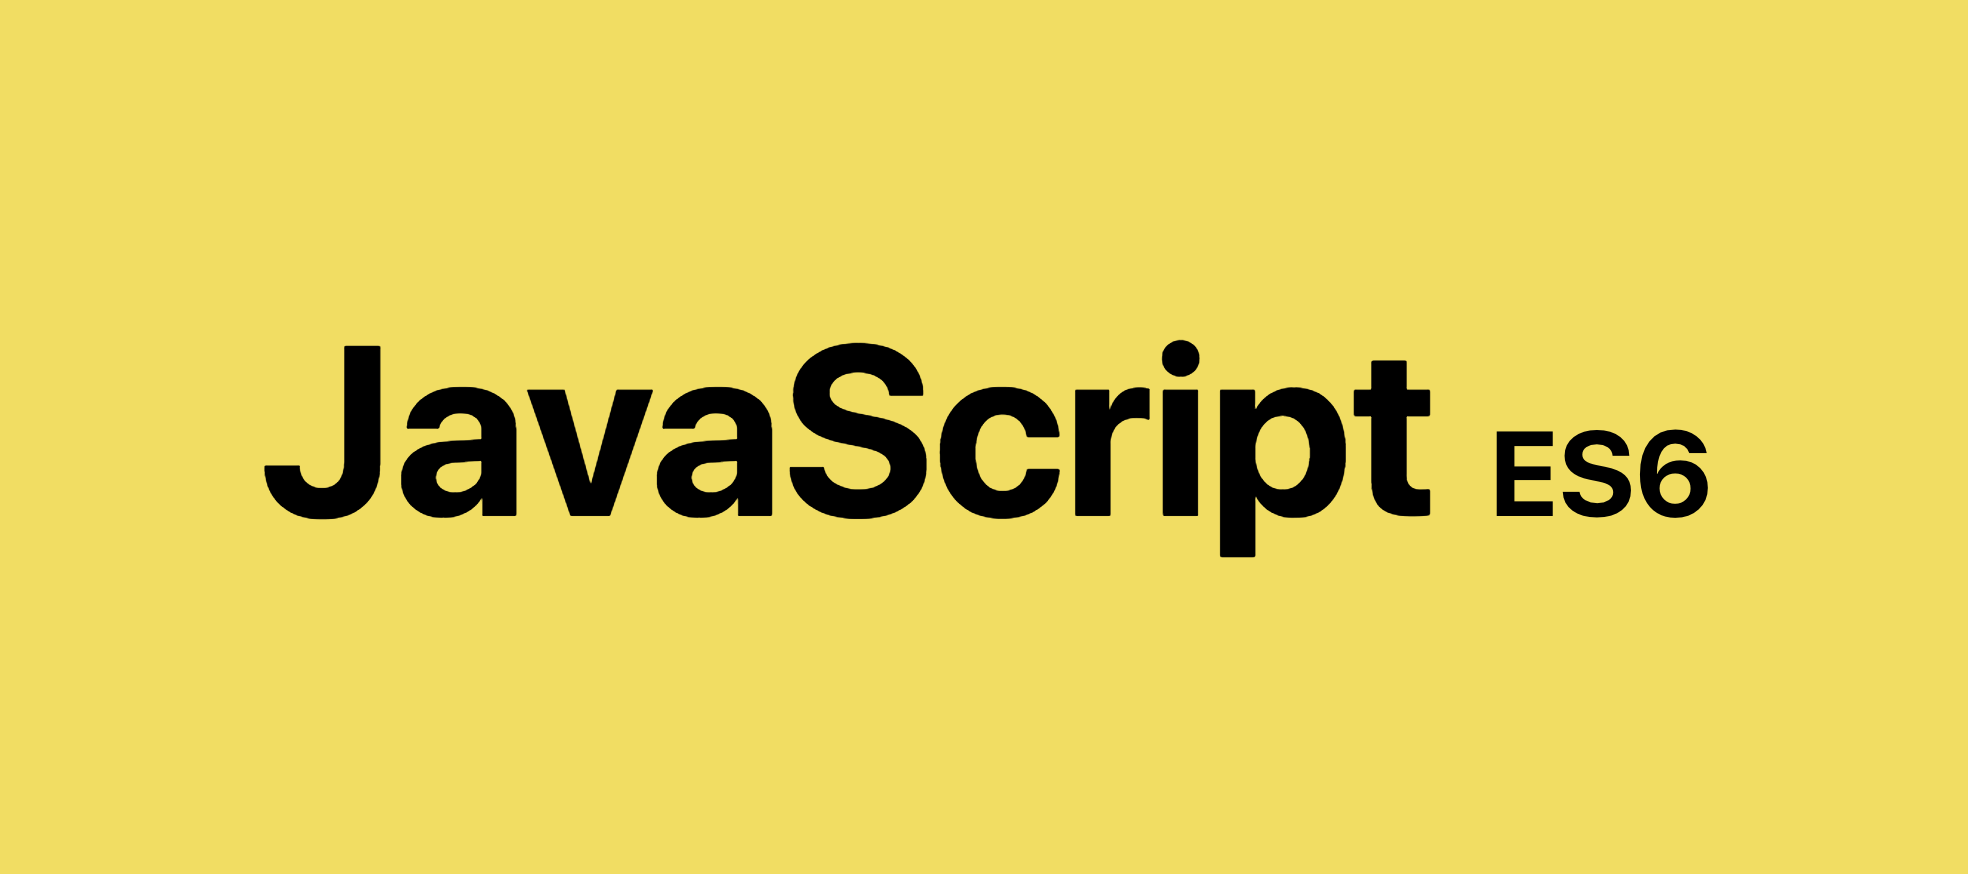
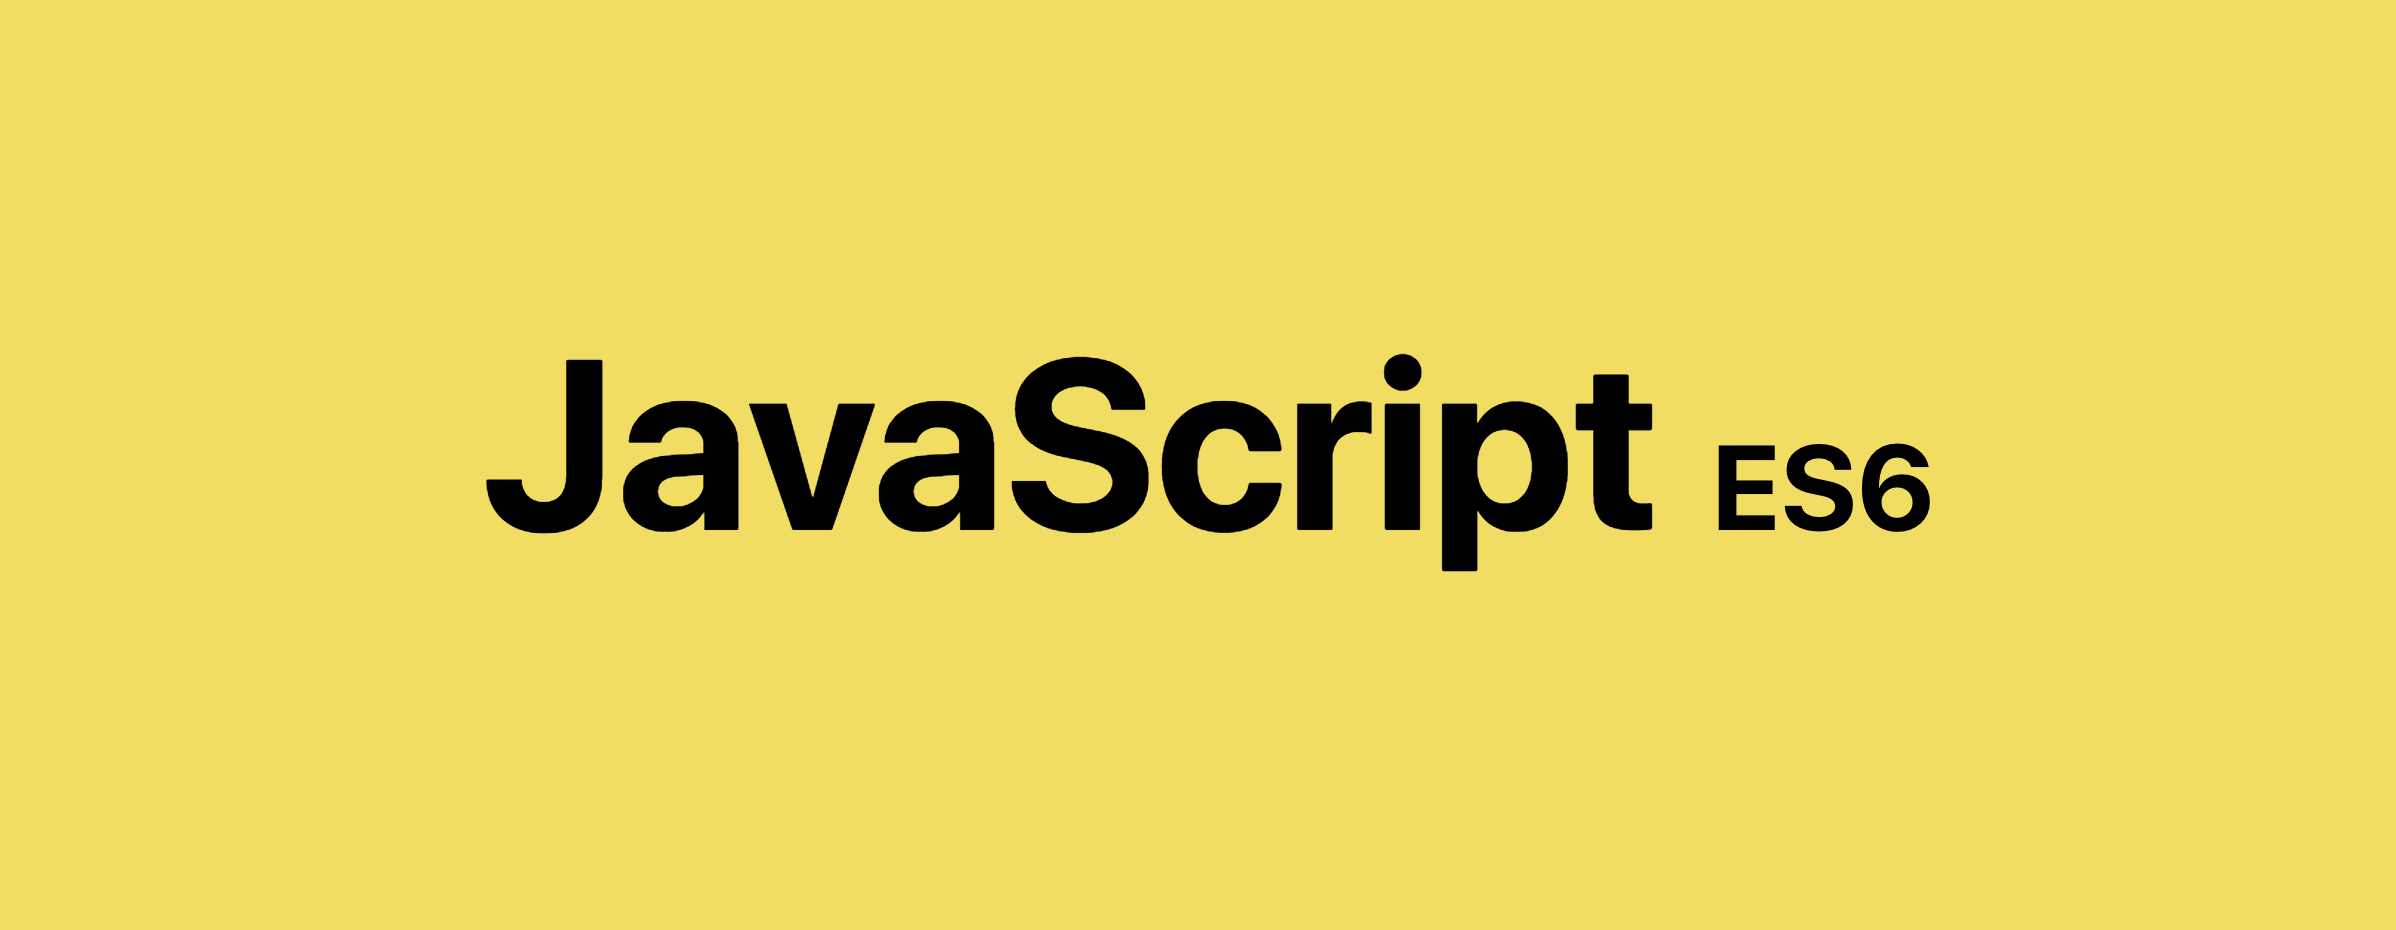
[UPDATE] 修改文章格式和上傳封面圖片

Changed region(s): [[0.124, 0.3707, 0.8679, 0.6487]]

diff --git a/src/content/js-websocket.md b/src/content/js-websocket.md
@@ -1,0 +1,268 @@
+---
+layout: post
+title: JavaScript | WebSocket 讓前後端沒有距離
+image: img/JavaScript.jpg
+author: GQSM
+date: 2019-08-21T13:45:54.149Z
+draft: false
+tags: 
+  - JavaScript
+  - WebSocket
+---
+
+## 前言
+
+最近因為工作的關係接觸到 <code class="hm hn ho hp hq b">WebSocket</code> ， <code class="hm hn ho hp hq b">WebSocket</code> 是網路協定的一種， Client 可以透過此協定與 Server 做溝通，而他和一般 <code class="hm hn ho hp hq b">http</code> 或 <code class="hm hn ho hp hq b">https</code> 不同的是， <code class="hm hn ho hp hq b">WebSocket</code> 協定只需透過一次連結便能保持連線，不必再透過一直發送 <code class="hm hn ho hp hq b">Request</code> 來與 Server 互動！
+
+---
+
+## WebSocket
+
+如前言所說， <code class="hm hn ho hp hq b">WebSocket</code> 只需開啟連結便能和 Server 做溝通，且 <code class="hm hn ho hp hq b">Websocket</code> 傳送資料的方式是雙向的， Client 端可以像 <code class="hm hn ho hp hq b">Ajax</code> 一樣做請求， Server 端也能主動發送 Client 所需要的資料。
+
+一般的 <code class="hm hn ho hp hq b">WebSocket</code> 請求網址會長這個樣子：
+
+<pre><span id="eaa9" class="is gm em at hq b fh it iu r iv">ws://example.com</span><span id="7253" class="is gm em at hq b fh iw ix iy iz ja iu r iv">//經過 <!-- -->SSL<!-- --> 加密後，前方的 <!-- -->ws<!-- --> 會變成 <!-- -->wss<!-- --> <br>wss://example.com</span></pre>
+<br />
+### Server 端 - 搭建 WebSocket 環境
+
+<code class="hm hn ho hp hq b">WebSocket</code> 的 Server 部分，本文會以 <code class="hm hn ho hp hq b">Node.js</code> 建置，如果電腦上還沒有安裝 <code class="hm hn ho hp hq b">Node.js</code> 可以先參考「<a href="https://ithelp.ithome.com.tw/articles/10199058" class="dj by jm jn jo jp" target="_blank" rel="noopener nofollow">[筆記][node.js]第一次建置node.js開發環境和安裝npm就上手！</a>」。
+
+處理好安裝環境後還需要在下載兩個套件，分別是用來開發 Web 框架的 <code class="hm hn ho hp hq b">express</code> 和負責處理 <code class="hm hn ho hp hq b">WebSocket</code> 協定的 <code class="hm hn ho hp hq b">ws</code> ：
+
+<pre><span id="ca26" class="is gm em at hq b fh it iu r iv">npm install express<br>npm install ws</span></pre>
+<br />
+
+安裝完後可以到專案中的 <code class="hm hn ho hp hq b">package.json</code> 中確認是否成功：
+
+<div><img class="dz t u jy ak" src="https://miro.medium.com/max/2108/1*EgbqxHT8iSGFbikO5oRVSg.png" role="presentation"><div style="display:flex; justify-content:center; font-size: 12px">
+            <span>下載完後的套件會被記錄到 package.json 中</span>
+          </div></div><br/>
+
+接著在專案裡新增一個 JavaScript 檔案 <code class="hm hn ho hp hq b">server.js</code> 當作專案的進入點：
+
+```javascript
+//import express 和 ws 套件
+const express = require('express')
+const SocketServer = require('ws').Server
+
+//指定開啟的 port
+const PORT = 3000
+
+//創建 express 的物件，並綁定及監聽 3000 port ，且設定開啟後在 console 中提示
+const server = express()
+    .listen(PORT, () => console.log(`Listening on ${PORT}`))
+
+//將 express 交給 SocketServer 開啟 WebSocket 的服務
+const wss = new SocketServer({ server })
+
+//當 WebSocket 從外部連結時執行
+wss.on('connection', ws => {
+
+    //連結時執行此 console 提示
+    console.log('Client connected')
+
+    //當 WebSocket 的連線關閉時執行
+    ws.on('close', () => {
+        console.log('Close connected')
+    })
+})
+```
+
+沒問題後便可以輸入以下指令執行 <code class="hm hn ho hp hq b">server.js</code> ：
+
+<pre><span id="6c86" class="is gm em at hq b fh it iu r iv">node server.js</span></pre>
+<br />
+
+當本機 Server 的指定 <code class="hm hn ho hp hq b">Port</code> 被打開時，會先執行我們監聽指定的事件：
+
+<div><img class="dz t u jy ak" src="https://miro.medium.com/max/1756/1*VAiVKJFcfHjAIll0WDRCxg.png" role="presentation"><div style="display:flex; justify-content:center; font-size: 12px">
+            <span>開啟成功後會在 console 中打印提示</span>
+          </div></div><br/>
+
+### Client 端 - 連接 WebSocket Server
+
+Server 端處理完後，就換到 Client 端來連結剛剛開啟的 <code class="hm hn ho hp hq b">WebSocket</code> 服務，這裡另外建一個專案，在專案裡只需一個 <code class="hm hn ho hp hq b">index.html</code> 及 <code class="hm hn ho hp hq b">index.js</code> ：
+
+<code class="hm hn ho hp hq b">index.html</code> 的部分先簡單處理，只需引用 <code class="hm hn ho hp hq b">index.js</code> 就可以了：
+
+```html
+<html>
+    <body>
+        <script src='./index.js'></script>
+    </body>
+</html>
+```
+
+<code class="hm hn ho hp hq b">index.js</code> 的部分會用來處理與 <code class="hm hn ho hp hq b">WebSocket</code> 的連結：
+
+```javascript
+//使用 WebSocket 的網址向 Server 開啟連結
+let ws = new WebSocket('ws://localhost:3000')
+
+//開啟後執行的動作，指定一個 function 會在連結 WebSocket 後執行
+ws.onopen = () => {
+    console.log('open connection')
+}
+
+//關閉後執行的動作，指定一個 function 會在連結中斷後執行
+ws.onclose = () => {
+    console.log('close connection')
+}
+```
+
+上方的 <code class="hm hn ho hp hq b">url</code> 為剛剛使用 <code class="hm hn ho hp hq b">node.js</code> 在本機上執行的 Server ，另外的 <code class="hm hn ho hp hq b">onopen</code> 及 <code class="hm hn ho hp hq b">onclose</code> 分別為他們指定一個 <code class="hm hn ho hp hq b">Function</code> ，在開啟和關閉連線時執行，執行結果：
+
+<div><img class="dz t u jy ak" src="https://miro.medium.com/max/3324/1*8CvZuLeH3jKwJ8_7gc8sHQ.png" role="presentation"><div style="display:flex; justify-content:center; font-size: 12px">
+            <span>開啟連結後會執行 onopen 的事件</span>
+          </div></div><br/>
+
+執行結果中可以看到 <code class="hm hn ho hp hq b">onopen</code> 中在 <code class="hm hn ho hp hq b">console</code> 打印的提示，除此之外，也可以從剛剛執行 Server 的地方觀察開啟連結後的訊息：
+
+<div><img class="dz t u jy ak" src="https://miro.medium.com/max/1772/1*y6Ivv4bi2kjIws-GxmTVYQ.png" role="presentation"><div style="display:flex; justify-content:center; font-size: 12px">
+            <span>在 Server 上執行時記錄的訊息</span>
+          </div></div><br/>
+
+上方也列出 <code class="hm hn ho hp hq b">WebSocket</code> 的物件有哪些屬性，比較重要的還有 <code class="hm hn ho hp hq b">onmessage</code> ， Client 就是靠它在接收由 Server 發送的資料，但在提到它之前，得先回到 Server 了解如何和 Client 做溝通。
+
+### 回到 Server 端 - 處理接收發送訊息
+
+提到溝通，過程一定是有來有往，在開啟 <code class="hm hn ho hp hq b">WebSocket</code> 後， Server 端會使用 <code class="hm hn ho hp hq b">send</code> 發送訊息，接收則是如同在 <code class="hm hn ho hp hq b">connection</code> 內監聽 <code class="hm hn ho hp hq b">close</code> 一樣，只是換成對 <code class="hm hn ho hp hq b">message</code> 設定監聽，並接收一個參數 <code class="hm hn ho hp hq b">data</code> ，捕獲 Client 端發送的訊息：
+
+```javascript
+wss.on('connection', ws => {
+    console.log('Client connected')
+
+    //對 message 設定監聽，接收從 Client 發送的訊息
+    ws.on('message', data => {
+        //data 為 Client 發送的訊息，現在將訊息原封不動發送出去
+        ws.send(data)
+    })
+
+    ws.on('close', () => {
+        console.log('Close connected')
+    })
+})
+```
+
+### 回到 Client 端 - 處理接收發送訊息
+
+剛剛處理完 Server ，要換回 Client 端使用 <code class="hm hn ho hp hq b">onmessage</code> 處理接收及 <code class="hm hn ho hp hq b">send</code> 送出訊息：
+
+```javascript
+let ws = new WebSocket('ws://localhost:3000')
+
+ws.onopen = () => {
+    console.log('open connection')
+}
+
+ws.onclose = () => {
+    console.log('close connection')
+}
+
+//接收 Server 發送的訊息
+ws.onmessage = event => {
+    console.log(event)
+}
+```
+
+<code class="hm hn ho hp hq b">onmessage</code> 指定的函式中多了一個參數 <code class="hm hn ho hp hq b">event</code> ，裡面會有這次溝通的詳細訊息，從 Server 回傳的資料會在 <code class="hm hn ho hp hq b">event</code> 的 <code class="hm hn ho hp hq b">data</code> 屬性中。
+
+但是上方的程式碼還沒有增加在 Client 中發送訊息的 <code class="hm hn ho hp hq b">send</code> ，因此下方在連接到 <code class="hm hn ho hp hq b">WebSocket</code> 後直接在 <code class="hm hn ho hp hq b">console</code> 中發送，並確認回傳訊息：
+
+<div><img class="dz t u jy ak" src="https://miro.medium.com/max/3832/1*oL40RiJz591Lbn4vrSBOHg.png" role="presentation"><div style="display:flex; justify-content:center; font-size: 12px">
+            <span>Server 接收 Client 發送的訊息後再回傳</span>
+          </div></div><br/>
+
+不過上面看起來還是以 Client 做 <code class="hm hn ho hp hq b">send</code> 發送訊息給 Server 處理過才得到回傳資料，該怎麼從 Server 上直接發送呢？很簡單，只需要透過 <code class="hm hn ho hp hq b">setInterval</code> 就能讓 Server 在固定時間發送資料給 Client ，例如下方的例子：
+
+```javascript
+wss.on('connection', ws => {
+    console.log('Client connected')
+
+    //固定送最新時間給 Client
+    const sendNowTime = setInterval(()=>{
+        ws.send(String(new Date()))
+    },1000)
+
+    ws.on('message', data => {
+        ws.send(data)
+    })
+
+    ws.on('close', () => {
+        //連線中斷時停止 setInterval
+        clearInterval(sendNowTime)
+        console.log('Close connected')
+    })
+})
+```
+
+Client 連結後的結果如下：
+
+<div><img class="dz t u jy ak" src="https://miro.medium.com/max/2076/1*AHKxAKEo8YuDePJjzDNtmQ.png" role="presentation"><div style="display:flex; justify-content:center; font-size: 12px">
+            <span>不斷接收 Server 主動傳遞的訊息</span>
+          </div></div><br/>
+
+### 最後一次回到 Server - 多人連線
+
+通常 <code class="hm hn ho hp hq b">WebSocket</code> 都會運用在聊天室，但是就剛剛的使用方式來說，今天 ClientA 和 ClientB 都連結同一個 Server ，而他們各自在 Client 使用 <code class="hm hn ho hp hq b">send</code> 發送資料給 Server ， 在這個情況下 Server 只會依據兩個 Client 各自發送的內容，再分別回傳給 ClientA 和 ClientB ，並無法讓 ClientB 能夠在 ClientA 發送訊息時也收到回傳的資料。
+
+例如以下例子，用兩個視窗開啟 Client 並各自發送請求：
+
+<div><img class="dz t u jy ak" src="https://miro.medium.com/max/1276/1*ZIy6Qp5D3qkUWhpstPdKTg.gif" role="presentation"><div style="display:flex; justify-content:center; font-size: 12px">
+            <span>客戶端無法共享 Server 發送的訊息</span>
+          </div></div><br/>
+
+那該怎麼像廣播一樣，當我在某一個 Client 發送訊息時，讓 Server 告知所有其他同時連接中的 Client 都知道我對 Server 發送這個訊息，也同時接收到 Server 回傳的資料呢？
+
+答案就在一開始下載的套件 <code class="hm hn ho hp hq b">ws</code> 中，它可以使用 <code class="hm hn ho hp hq b">clients</code> 找出當前所有連結中的 Client 資訊，並透過迴圈將訊息發送至每一個 Client 中：
+
+```javascript
+wss.on('connection', ws => {
+    console.log('Client connected')
+
+    ws.on('message', data => {
+        //取得所有連接中的 client
+        let clients = wss.clients
+
+        //做迴圈，發送訊息至每個 client
+        clients.forEach(client => {
+            client.send(data)
+        })
+    })
+
+    ws.on('close', () => {
+        console.log('Close connected')
+    })
+})
+```
+
+這麼一來，不論是哪個 Client 端發送訊息， Server 都會將訊息回覆給所有連接中的 Client ：
+
+<div><img class="dz t u jy ak" src="https://miro.medium.com/max/1276/1*9ETT853cZxzHKDcBfBCyqA.gif" role="presentation"></div><br/>
+
+### 補充內容
+
+雖然在 <code class="hm hn ho hp hq b">WebSocket</code> 的協定上 Client 和 Server 不需再通過 <code class="hm hn ho hp hq b">Request</code> ，因此在開發人員工具中的 <code class="hm hn ho hp hq b">Network</code> 中就看不到 <code class="hm hn ho hp hq b">Request</code> 的資料，但是取而代之的是，那些傳遞過程可以透過第一次要求連接時的 <code class="hm hn ho hp hq b">Request</code> 中觀察：
+
+<div><img class="dz t u jy ak" src="https://miro.medium.com/max/2124/1*b-CROiddSOb1YWQnbUHJTA.gif" role="presentation"><div style="display:flex; justify-content:center; font-size: 12px">
+            <span>觀察在 WebSocket 協定的傳輸方式</span>
+          </div></div><br/>
+
+關於 <code class="hm hn ho hp hq b">WebSocket</code> 從 Client 或是 Server 在 <code class="hm hn ho hp hq b">send</code> 資料時，除了字串外還可以使用 <code class="hm hn ho hp hq b"><a href="https://developer.mozilla.org/en-US/docs/Web/API/USVString" class="dj by jm jn jo jp" target="_blank" rel="noopener nofollow">USVString</a></code> 、 <code class="hm hn ho hp hq b"><a href="https://developer.mozilla.org/en-US/docs/Web/JavaScript/Reference/Global_Objects/ArrayBuffer" class="dj by jm jn jo jp" target="_blank" rel="noopener nofollow">ArrayBuffer</a></code> 、 <code class="hm hn ho hp hq b"><a href="https://developer.mozilla.org/en-US/docs/Web/API/Blob" class="dj by jm jn jo jp" target="_blank" rel="noopener nofollow">Blod</a></code> 和 <code class="hm hn ho hp hq b"><a href="https://developer.mozilla.org/en-US/docs/Web/API/ArrayBufferView" class="dj by jm jn jo jp" target="_blank" rel="noopener nofollow">ArrayBufferView</a></code> 等型態（這部分感謝 <a class="dj by jm jn jo jp" target="_blank" rel="noopener" href="/@cgh20xx?source=responses---------0---------------------">Hank Hsiao</a> 留言提醒）。
+
+另外，要傳送 <code class="hm hn ho hp hq b">JSON</code> 的資料的時，記得在 <code class="hm hn ho hp hq b">send</code> 中做 <code class="hm hn ho hp hq b">JSON.stringify</code> ，接收到時再用 <code class="hm hn ho hp hq b">JSON.parse</code> 轉成物件處理即可！
+
+如果想找個伺服器部署 <code class="hm hn ho hp hq b">WebSocket</code> ，可以參考「<a class="dj by jm jn jo jp" target="_blank" rel="noopener" href="/enjoy-life-enjoy-coding/heroku-搭配-git-在-heroku-上部署網站的手把手教學-bf4fd6f998b8">Heroku | 搭配 Git 在 Heroku 上部署網站的手把手教學</a>」
+
+---
+
+本文介紹了 <code class="hm hn ho hp hq b">WebSocket</code> 的基本使用方式及一些例子，希望能夠減少各位研究的時間，這幾天還會接著研究如何搭配 <code class="hm hn ho hp hq b">React</code> 。
+
+如果文章中有任何問題，或是不理解的地方，都可以留言告訴我！謝謝大家！
+
+參考文章
+
+<ol>
+<li id="0fc8" class="gy gz em at ha b hb ig hd ih hf ii hh ij hj ik hl la lb lc"><a href="https://devcenter.heroku.com/articles/node-websockets" class="dj by jm jn jo jp" target="_blank" rel="noopener nofollow">https://devcenter.heroku.com/articles/node-websockets</a></li><li id="0839" class="gy gz em at ha b hb ld hd le hf lf hh lg hj lh hl la lb lc"><a href="http://www.ruanyifeng.com/blog/2017/05/websocket.html" class="dj by jm jn jo jp" target="_blank" rel="noopener nofollow">http://www.ruanyifeng.com/blog/2017/05/websocket.html</a></li>
+</ol>

diff --git a/src/content/js-fetch.md b/src/content/js-fetch.md
@@ -63,9 +63,11 @@ fetch('https://httpbin.org/get')
 
 <code class="hm jc jd je jf b">Fetch</code> 接收了一個 <code class="hm jc jd je jf b">url</code> 作參數，並用 <code class="hm jc jd je jf b">then</code> 接收此次請求的相關資訊：
 
+<div>
 <img class="dz t u hi ak" src="https://miro.medium.com/max/3212/1*pTxI2uirqpdNK6OGrYNGag.png" role="presentation"><div style="display:flex; justify-content:center; font-size: 12px">
-            <span>關於該此請求的 response 內容</span>
-          </div><br/>
+            <span>關於該次請求的 response 內容</span>
+          </div>
+</div><br/>
 
 資訊內包含了請求的 <code class="hm jc jd je jf b">url</code> 和用來判斷請求是否成功的 <code class="hm jc jd je jf b">status</code> 狀態等，在 <code class="hm jc jd je jf b">response</code> 中有兩個內建函式可以用來得到請求回傳的資料。
 
@@ -73,13 +75,15 @@ fetch('https://httpbin.org/get')
 
 下方為第二個 <code class="hm jc jd je jf b">.then</code> 在 <code class="hm jc jd je jf b">console</code> 中印出的 <code class="hm jc jd je jf b">myJson</code> 內容，以及當使用 <code class="hm jc jd je jf b">.text()</code> 時的資料模樣：
 
+<div>
 <img class="dz t u hi ak" src="https://miro.medium.com/max/4180/1*JCATZx8-PiPLkL6E7RFtsg.png" role="presentation"><div style="display:flex; justify-content:center; font-size: 12px">
             <span>用 .json() 將 response 的請求資料取出</span>
-          </div><br/>
+          </div></div><br/>
 
+<div>
 <img class="dz t u hi ak" src="https://miro.medium.com/max/4128/1*beHToJ0Jz8dORnpfcearxA.png" role="presentation"><div style="display:flex; justify-content:center; font-size: 12px">
             <span>用 .text() 將 response 的請求資料取出</span>
-          </div><br/>
+          </div></div><br/>
 
 ### POST
 
@@ -103,19 +107,22 @@ fetch('https://httpbin.org/post', {
 
 <code class="hm jc jd je jf b">Fetch</code> 在未指定請求方式的情況下都是使用 <code class="hm jc jd je jf b">GET</code> ，但是 <code class="hm jc jd je jf b">GET</code> 本身無法在請求中藉由 <code class="hm jc jd je jf b">body</code> 送出資料，因此在有 <code class="hm jc jd je jf b">body</code> 屬性的狀態下，未替 <code class="hm jc jd je jf b">method</code> 指定為 <code class="hm jc jd je jf b">POST</code> 或其他可帶 <code class="hm jc jd je jf b">body</code> 的請求方式時，會出現以下錯誤：
 
+<div>
 <img class="dz t u hi ak" src="https://miro.medium.com/max/3580/1*uylPEmLS2Rx9M4BupxqzTQ.png" role="presentation"><div style="display:flex; justify-content:center; font-size: 12px">
             <span>預設的請求方式 GET 無法指定 body</span>
-          </div><br/>
+          </div></div><br/>
 
 需要注意的是， <code class="hm jc jd je jf b">body</code> 內的資料需使用 <code class="hm jc jd je jf b">JSON.stringify</code> 將物件轉換成字串型態，否則 <code class="hm jc jd je jf b">server</code> 端會無法正確取得資料，以下是 <code class="hm jc jd je jf b">data</code> 送進 <code class="hm jc jd je jf b">server</code> 的差別：
 
+<div>
 <img class="dz t u hi ak" src="https://miro.medium.com/max/2416/1*MzqoimOIofho6J2Mx0fDVA.png" role="presentation"><div style="display:flex; justify-content:center; font-size: 12px">
             <span>未使用 JSON.stringify</span>
-          </div><br/>
+          </div></div><br/>
 
+<div>
 <img class="dz t u hi ak" src="https://miro.medium.com/max/2644/1*ygaq1njimK3iiqmw2IXY_Q.png" role="presentation"><div style="display:flex; justify-content:center; font-size: 12px">
             <span>使用了 JSON.stringify</span>
-          </div><br/>
+          </div></div><br/>
 
 未使用 <code class="hm jc jd je jf b">JSON.stringify</code> 的請求會直接將物件強制轉為字串，變成 <code class="hm jc jd je jf b">[object Object]</code> 送至 <code class="hm jc jd je jf b">server</code> ，使用了正確轉換的請求在 <code class="hm jc jd je jf b">server</code> 端則是能接收到正確的內容。
 

diff --git a/src/content/js-promise.md b/src/content/js-promise.md
@@ -68,10 +68,11 @@ console.log(data);
 ## Promise 基本用法
 如上段所說， Promise 是用來處理同步的部分，再說明用法前先來用圖片簡單瞭解一下原理：
 
+<div>
 <img style="width: 100%" src="https://i.imgur.com/GG6Wxmt.png" />
 <div style="display:flex; justify-content:center">
 <a href="https://developer.mozilla.org/zh-TW/docs/Web/JavaScript/Reference/Global_Objects/Promise">圖片來源：https://developer.mozilla.org</a>
-</div><br />
+</div></div><br />
 
 上圖為 Promise 的生命週期，每個 Promise 都會經過 pending 狀態，在 pending 後分別會有成功時走向的的 fulfill ，及失敗時的 reject ，並透過 `.then()` 在成功時接著處理資料，或是以 `.catch()` 做失敗時的應對，當然！不論是哪一條路，也可以再 return 一個新的 Promise 延續處理。
 
